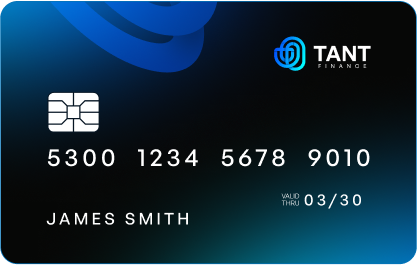
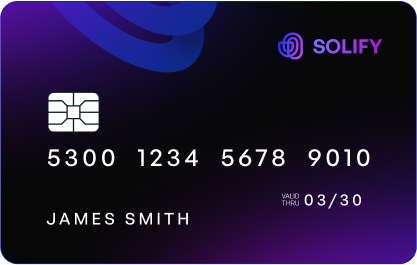
all done

diff --git a/src/pages/News.jsx b/src/pages/News.jsx
@@ -1,4 +1,5 @@
 import { Tabs, Tab, Card, CardBody } from "@nextui-org/react";
+import coming_soon from '../assets/img/coming-soon.png'
 
 import NewsCaed from "../components/NewsCaed";
 
@@ -14,93 +15,94 @@ import icon3 from "../assets/img/icon3.svg";
 export default function News() {
   const newscards = [
     {
-      "title" : "$BTC Bitcoin could hit 51K within hours.",
+      "title": "$BTC Bitcoin could hit 51K within hours.",
       "des": "#BitcoinETFs could be approved anytime now. Prio to approval, they might shake the entire market with sharp movements. Be cautious, stick to spot trading! The trend is upward, stay calm stick to spot",
       "img": `${newscard1}`,
       "icon": `${icon1}`,
-      "iconname" : "Soham",
-      "social" :"@soham . 6h"
+      "iconname": "Soham",
+      "social": "@soham . 6h"
     },
     {
-      "title" : " $BTC Bitcoin could hit 51K within hours.",
+      "title": " $BTC Bitcoin could hit 51K within hours.",
       "des": "#BitcoinETFs could be approved anytime now. Prio to approval, they might shake the entire market with sharp movements. Be cautious, stick to spot trading! The trend is upward, stay calm stick to spot",
       "img": `${newscard2}`,
       "icon": `${icon2}`,
-      "iconname" : "Darrell",
-      "social" :"@darrell . 6h"
+      "iconname": "Darrell",
+      "social": "@darrell . 6h"
     },
     {
-      "title" : " $BTC Bitcoin could hit 51K within hours.",
+      "title": " $BTC Bitcoin could hit 51K within hours.",
       "des": "#BitcoinETFs could be approved anytime now. Prio to approval, they might shake the entire market with sharp movements. Be cautious, stick to spot trading! The trend is upward, stay calm stick to  spot",
       "img": `${newscard3}`,
       "icon": `${icon3}`,
-      "iconname" : "Shane",
-      "social" :"@shane . 6h"
+      "iconname": "Shane",
+      "social": "@shane . 6h"
     },
     {
-      "title" : " $BTC Bitcoin could hit 51K within hours.",
+      "title": " $BTC Bitcoin could hit 51K within hours.",
       "des": "#BitcoinETFs could be approved anytime now. Prio to approval, they might shake the entire market with sharp movements. Be cautious, stick to spot trading! The trend is upward, stay calm stick to spot",
       "img": `${newscard4}`,
       "icon": `${icon1}`,
-      "iconname" : "Soham",
-      "social" :"@soham . 6h"
+      "iconname": "Soham",
+      "social": "@soham . 6h"
     },
     {
-      "title" : " $BTC Bitcoin could hit 51K within hours.",
+      "title": " $BTC Bitcoin could hit 51K within hours.",
       "des": "#BitcoinETFs could be approved anytime now. Prio to approval, they might shake the entire market with sharp movements. Be cautious, stick to spot trading! The trend is upward, stay calm stick to spot",
       "img": `${newscard5}`,
       "icon": `${icon2}`,
-      "iconname" : "Darrell",
-      "social" :"@darrell . 6h"
+      "iconname": "Darrell",
+      "social": "@darrell . 6h"
     },
     {
-      "title" : "$BTC Bitcoin could hit 51K within hours.",
+      "title": "$BTC Bitcoin could hit 51K within hours.",
       "des": "#BitcoinETFs could be approved anytime now. Prio to approval, they might shake the entire market with sharp movements. Be cautious, stick to spot trading! The trend is upward, stay calm stick to spot",
       "img": `${newscard6}`,
       "icon": `${icon3}`,
-      "iconname" : "Shane",
-      "social" :"@shane . 6h"
+      "iconname": "Shane",
+      "social": "@shane . 6h"
     }
-    
+
   ]
   const newscards2 = [
     {
-      "title" : "$BTC Bitcoin could hit 51K within hours.",
+      "title": "$BTC Bitcoin could hit 51K within hours.",
       "des": "#BitcoinETFs could be approved anytime now. Prio to approval, they might shake the entire market with sharp movements. Be cautious, stick to spot trading! The trend is upward, stay calm stick to spot",
       "img": `${newscard1}`,
       "icon": `${icon1}`,
-      "iconname" : "Soham",
-      "social" :"@soham . 6h"
+      "iconname": "Soham",
+      "social": "@soham . 6h"
     },
     {
-      "title" : " $BTC Bitcoin could hit 51K within hours.",
+      "title": " $BTC Bitcoin could hit 51K within hours.",
       "des": "#BitcoinETFs could be approved anytime now. Prio to approval, they might shake the entire market with sharp movements. Be cautious, stick to spot trading! The trend is upward, stay calm stick to spot",
       "img": `${newscard2}`,
       "icon": `${icon2}`,
-      "iconname" : "Darrell",
-      "social" :"@darrell . 6h"
+      "iconname": "Darrell",
+      "social": "@darrell . 6h"
     }
   ]
   return (
-    <div className="news  w-full flex-col">
+    <div className="news relative w-full flex-col">
+      <div className="rounded-xl absolute top-0 left-0 w-full h-full border border-white border-opacity-10 z-10 bg-black bg-opacity-10 flex items-center justify-center" style={{ backdropFilter: 'blur(12px)' }}><img src={coming_soon} className="w-auto h-auto" alt="" /></div>
       <Tabs aria-label="Options">
         <Tab key="Top" title="Top" className=" text-[#6B7280] px-[30px] py-[10px] text-[17px] leading-[26px] font-normal ">
           <Card className="!border-none w-full card-card ">
             <CardBody className="bg-[#03060D] text-white border-none card-des !w-full !p-0 mt-4">
               <div className=" grid grid-cols-1  lg:grid-cols-2 xl:grid-cols-3 gap-3 md:gap-4 lg:gap-[26px]">
                 {
-                  newscards.map((item,idx)=><NewsCaed item={item} key={idx}/>)
+                  newscards.map((item, idx) => <NewsCaed item={item} key={idx} />)
                 }
               </div>
             </CardBody>
           </Card>
         </Tab>
         <Tab key="Latest" title="Latest" className="tab-btn text-[#6B7280] px-[30px] py-[10px] text-[17px] leading-[26px] font-normal ">
-        <Card className="!border-none w-full card-card ">
-          <CardBody className="bg-[#03060D] text-white border-none card-des !w-full !p-0 mt-4">
-            <div className=" grid grid-cols-1 xl:grid-cols-2 2xl:grid-cols-3 gap-3 cardbody  2xl:gap-[26px]">
+          <Card className="!border-none w-full card-card ">
+            <CardBody className="bg-[#03060D] text-white border-none card-des !w-full !p-0 mt-4">
+              <div className=" grid grid-cols-1 xl:grid-cols-2 2xl:grid-cols-3 gap-3 cardbody  2xl:gap-[26px]">
                 {
-                  newscards2.map((item,idx)=><NewsCaed item={item} key={idx}/>)
+                  newscards2.map((item, idx) => <NewsCaed item={item} key={idx} />)
                 }
               </div>
             </CardBody>

diff --git a/src/pages/Dex.jsx b/src/pages/Dex.jsx
@@ -11,6 +11,7 @@ import icon5 from "../assets/img/ticon5.svg";
 import icon6 from "../assets/img/ticon6.svg";
 import icon7 from "../assets/img/ticon7.svg";
 import icon8 from "../assets/img/ticon8.svg";
+import coming_soon from '../assets/img/coming-soon.png'
 
 import {
   Table,
@@ -79,51 +80,52 @@ export default function Dex() {
       Signup: "30",
     },
   ];
-const items = [
-  {
-    title: "VOLUME TODAY",
-    img:`${dexicon}`,
-    des:"$74,097,895,234"
-  },
-  {
-    title: "PROFIT TODAY",
-    img:`${dexicon2}`,
-    des:"$2000"
-  },
-  {
-    title: "SIGNUPS",
-    img:`${dexicon3}`,
-    des:"200"
-  },
-  {
-    title: "USER REGISTERED",
-    img:`${dexicon4}`,
-    des:"122"
-  },
-]
+  const items = [
+    {
+      title: "VOLUME TODAY",
+      img: `${dexicon}`,
+      des: "$74,097,895,234"
+    },
+    {
+      title: "PROFIT TODAY",
+      img: `${dexicon2}`,
+      des: "$2000"
+    },
+    {
+      title: "SIGNUPS",
+      img: `${dexicon3}`,
+      des: "200"
+    },
+    {
+      title: "USER REGISTERED",
+      img: `${dexicon4}`,
+      des: "122"
+    },
+  ]
 
   return (
-    <div className="dex">
+    <div className="dex relative">
+      <div className="rounded-xl absolute top-0 left-0 w-full h-full border border-white border-opacity-10 z-10 bg-black bg-opacity-10 flex items-center justify-center" style={{ backdropFilter: 'blur(12px)' }}><img src={coming_soon} className="w-auto h-auto" alt="" /></div>
       <div className="grid grid-cols-1 lg:grid-cols-2  2xl:grid-cols-4 gap-[20px]  mb-5 md:mb-8 lg:mb-12  xl:mb-[52px]">
         {
-          items.map((item,idx)=>(
+          items.map((item, idx) => (
             <div className=" imtitem flex  gap-4 bg-[#080B13] rounded-[10px] items-center md:items-start  p-3 md:p-6  " key={idx}>
-            <div className={`p-3 flex justify-center items-center ${idx==0 && "bg-[#0257FF]"} ${idx==1 && "bg-[#0276FF]"} ${idx==2 && "bg-[#5302FF]"}   ${idx==3 && "bg-[#6202FF]"}   rounded-[10px] w-[47px] h-[47px]  md:w-[80px] md:h-[80px]   flex-none xl:2  xxl:p-3`}>
-              <img
-                className="w-5 h-5   md:w-10 md:h-10  flex-none "
-                src={item.img}
-                alt=""
-              />
-            </div>
-            <div>
-              <h6 className=" title text-[12px] md:text-lg   leading-6 font-medium text-[#6B7280]   lg:mb-3 xl:mb-4   uppercase ">
-               {item.title}
-              </h6>
-              <p className=" des text-base md:text-[30px]  leading-[40px] font-semibold text-[#D9DCE4]">
-              {item.des}
-              </p>
-            </div>
-          </div>))
+              <div className={`p-3 flex justify-center items-center ${idx == 0 && "bg-[#0257FF]"} ${idx == 1 && "bg-[#0276FF]"} ${idx == 2 && "bg-[#5302FF]"}   ${idx == 3 && "bg-[#6202FF]"}   rounded-[10px] w-[47px] h-[47px]  md:w-[80px] md:h-[80px]   flex-none xl:2  xxl:p-3`}>
+                <img
+                  className="w-5 h-5   md:w-10 md:h-10  flex-none "
+                  src={item.img}
+                  alt=""
+                />
+              </div>
+              <div>
+                <h6 className=" title text-[12px] md:text-lg   leading-6 font-medium text-[#6B7280]   lg:mb-3 xl:mb-4   uppercase ">
+                  {item.title}
+                </h6>
+                <p className=" des text-base md:text-[30px]  leading-[40px] font-semibold text-[#D9DCE4]">
+                  {item.des}
+                </p>
+              </div>
+            </div>))
         }
       </div>
 

diff --git a/src/pages/Card.jsx b/src/pages/Card.jsx
@@ -1,6 +1,8 @@
 import card from "../assets/img/card.png";
 import ChartTwo from "../components/ChartTwo";
 import { Bar } from "react-chartjs-2";
+import coming_soon from '../assets/img/coming-soon.png'
+
 import {
   Chart as ChartJS,
   CategoryScale,
@@ -59,7 +61,7 @@ export default function Card() {
       },
       y: {
         ticks: {
-          callback: function (value, index, values) {            
+          callback: function (value, index, values) {
             return `$${value}k`;
           }
         },
@@ -117,7 +119,8 @@ export default function Card() {
           <div className="w-full lg:w-[64.33%] xl:w-1/3 mb-6 lg:mb-0">
             <img className="w-full" src={card} alt="" />
           </div>
-          <div className="w-full lg:w-2/3 card-content-text">
+          <div className="w-full lg:w-2/3 card-content-text relative">
+            <div className="rounded-xl absolute top-0 left-0 w-full h-full border border-white border-opacity-10 z-10 bg-black bg-opacity-10 flex items-center justify-center" style={{ backdropFilter: 'blur(12px)' }}><img src={coming_soon} className="w-auto h-auto" alt="" /></div>
             <div className="text-body grid grid-cols-2 xl:grid-cols-3 justify-center gap-x-[6.5rem] md:gap-y-[1.5rem] lg:gap-x-14  xl:gap-x-[36px] 2xl:gap-x-[163px] gap-y-8  lg:gap-y-[5px] xl:gap-y-[58px] uppercase ">
               {
                 items.map((item, idx) => <div key={idx}>
@@ -163,7 +166,8 @@ export default function Card() {
               </div>
             </div>
           </div>
-          <div className=" w-full xl:w-6/12 p-3 md:p-5 lg:p-[30px] bg-[#080B13] rounded-[20px] mt-6 xl:mt-0">
+          <div className=" w-full xl:w-6/12 p-3 md:p-5 lg:p-[30px] bg-[#080B13] rounded-[20px] mt-6 xl:mt-0 relative">
+            <div className="rounded-xl absolute top-0 left-0 w-full h-full border border-white border-opacity-10 z-10 bg-black bg-opacity-10 flex items-center justify-center" style={{ backdropFilter: 'blur(12px)' }}><img src={coming_soon} className="w-auto h-auto" alt="" /></div>
             <div className="chart-issu-chart h-full flex flex-col">
               <div className="flex items-center justify-between mb-4 md:mb-5 lg:mb-[28px] ">
                 <h4 className="text-base md:text-lg lg:text-[23px] leading-[37px] font-medium text-[#A8ABB3]">

diff --git a/src/pages/Dashboard.jsx b/src/pages/Dashboard.jsx
@@ -302,7 +302,7 @@ export default function Dashboard() {
             </div>
           </div>
           <div className="lg:hidden relative">
-            <div className="absolute top-0 left-0 w-full h-full z-10 bg-black bg-opacity-10 flex items-center justify-center" style={{ backdropFilter: 'blur(12px)' }}><img src={coming_soon} className="w-auto h-auto" alt="" /></div>
+          <div className="rounded-xl absolute top-0 left-0 w-full h-full border border-white border-opacity-10 z-10 bg-black bg-opacity-10 flex items-center justify-center" style={{ backdropFilter: 'blur(12px)' }}><img src={coming_soon} className="w-auto h-auto" alt="" /></div>
             <Dashboardtable tabledata={tabledata} />
           </div>
         </div>
@@ -391,7 +391,7 @@ export default function Dashboard() {
           <CandlestickChart />
         </div>
         <div className="hidden lg:block relative">
-          <div className="absolute top-0 left-0 w-full h-full z-10 bg-black bg-opacity-10 flex items-center justify-center" style={{ backdropFilter: 'blur(12px)' }}><img src={coming_soon} className="w-auto h-auto" alt="" /></div>
+        <div className="rounded-xl absolute top-0 left-0 w-full h-full border border-white border-opacity-10 z-10 bg-black bg-opacity-10 flex items-center justify-center" style={{ backdropFilter: 'blur(12px)' }}><img src={coming_soon} className="w-auto h-auto" alt="" /></div>
           <Dashboardtable tabledata={tabledata} />
         </div>
       </div>

diff --git a/src/components/Footer.jsx b/src/components/Footer.jsx
@@ -20,27 +20,27 @@ export default function Footer() {
   const social = [
     {
       icon: <FaXTwitter />,
-      url: 'https://x.com/TantFinance',
+      url: 'https://x.com/SolifySpl',
       name: 'x',
     },
     {
       icon: <FaTelegram />,
-      url: 'https://t.me/tantfinanceofficial',
+      url: 'https://t.me/solifysolana',
       name: 'telegram',
     },
     {
       icon: <FaDiscord />,
-      url: 'https://discord.gg/6SAEzHsS',
+      url: '',
       name: 'discord',
     },
     {
       icon: <FaTiktok />,
-      url: 'https://www.tiktok.com/@tant.finance?is_from_webapp=1&sender_device=pc',
+      url: '',
       name: 'tiktok',
     },
     {
       icon: <FaYoutube />,
-      url: 'https://www.youtube.com/@TantFinance',
+      url: '',
       name: 'youtube',
     }
   ];
